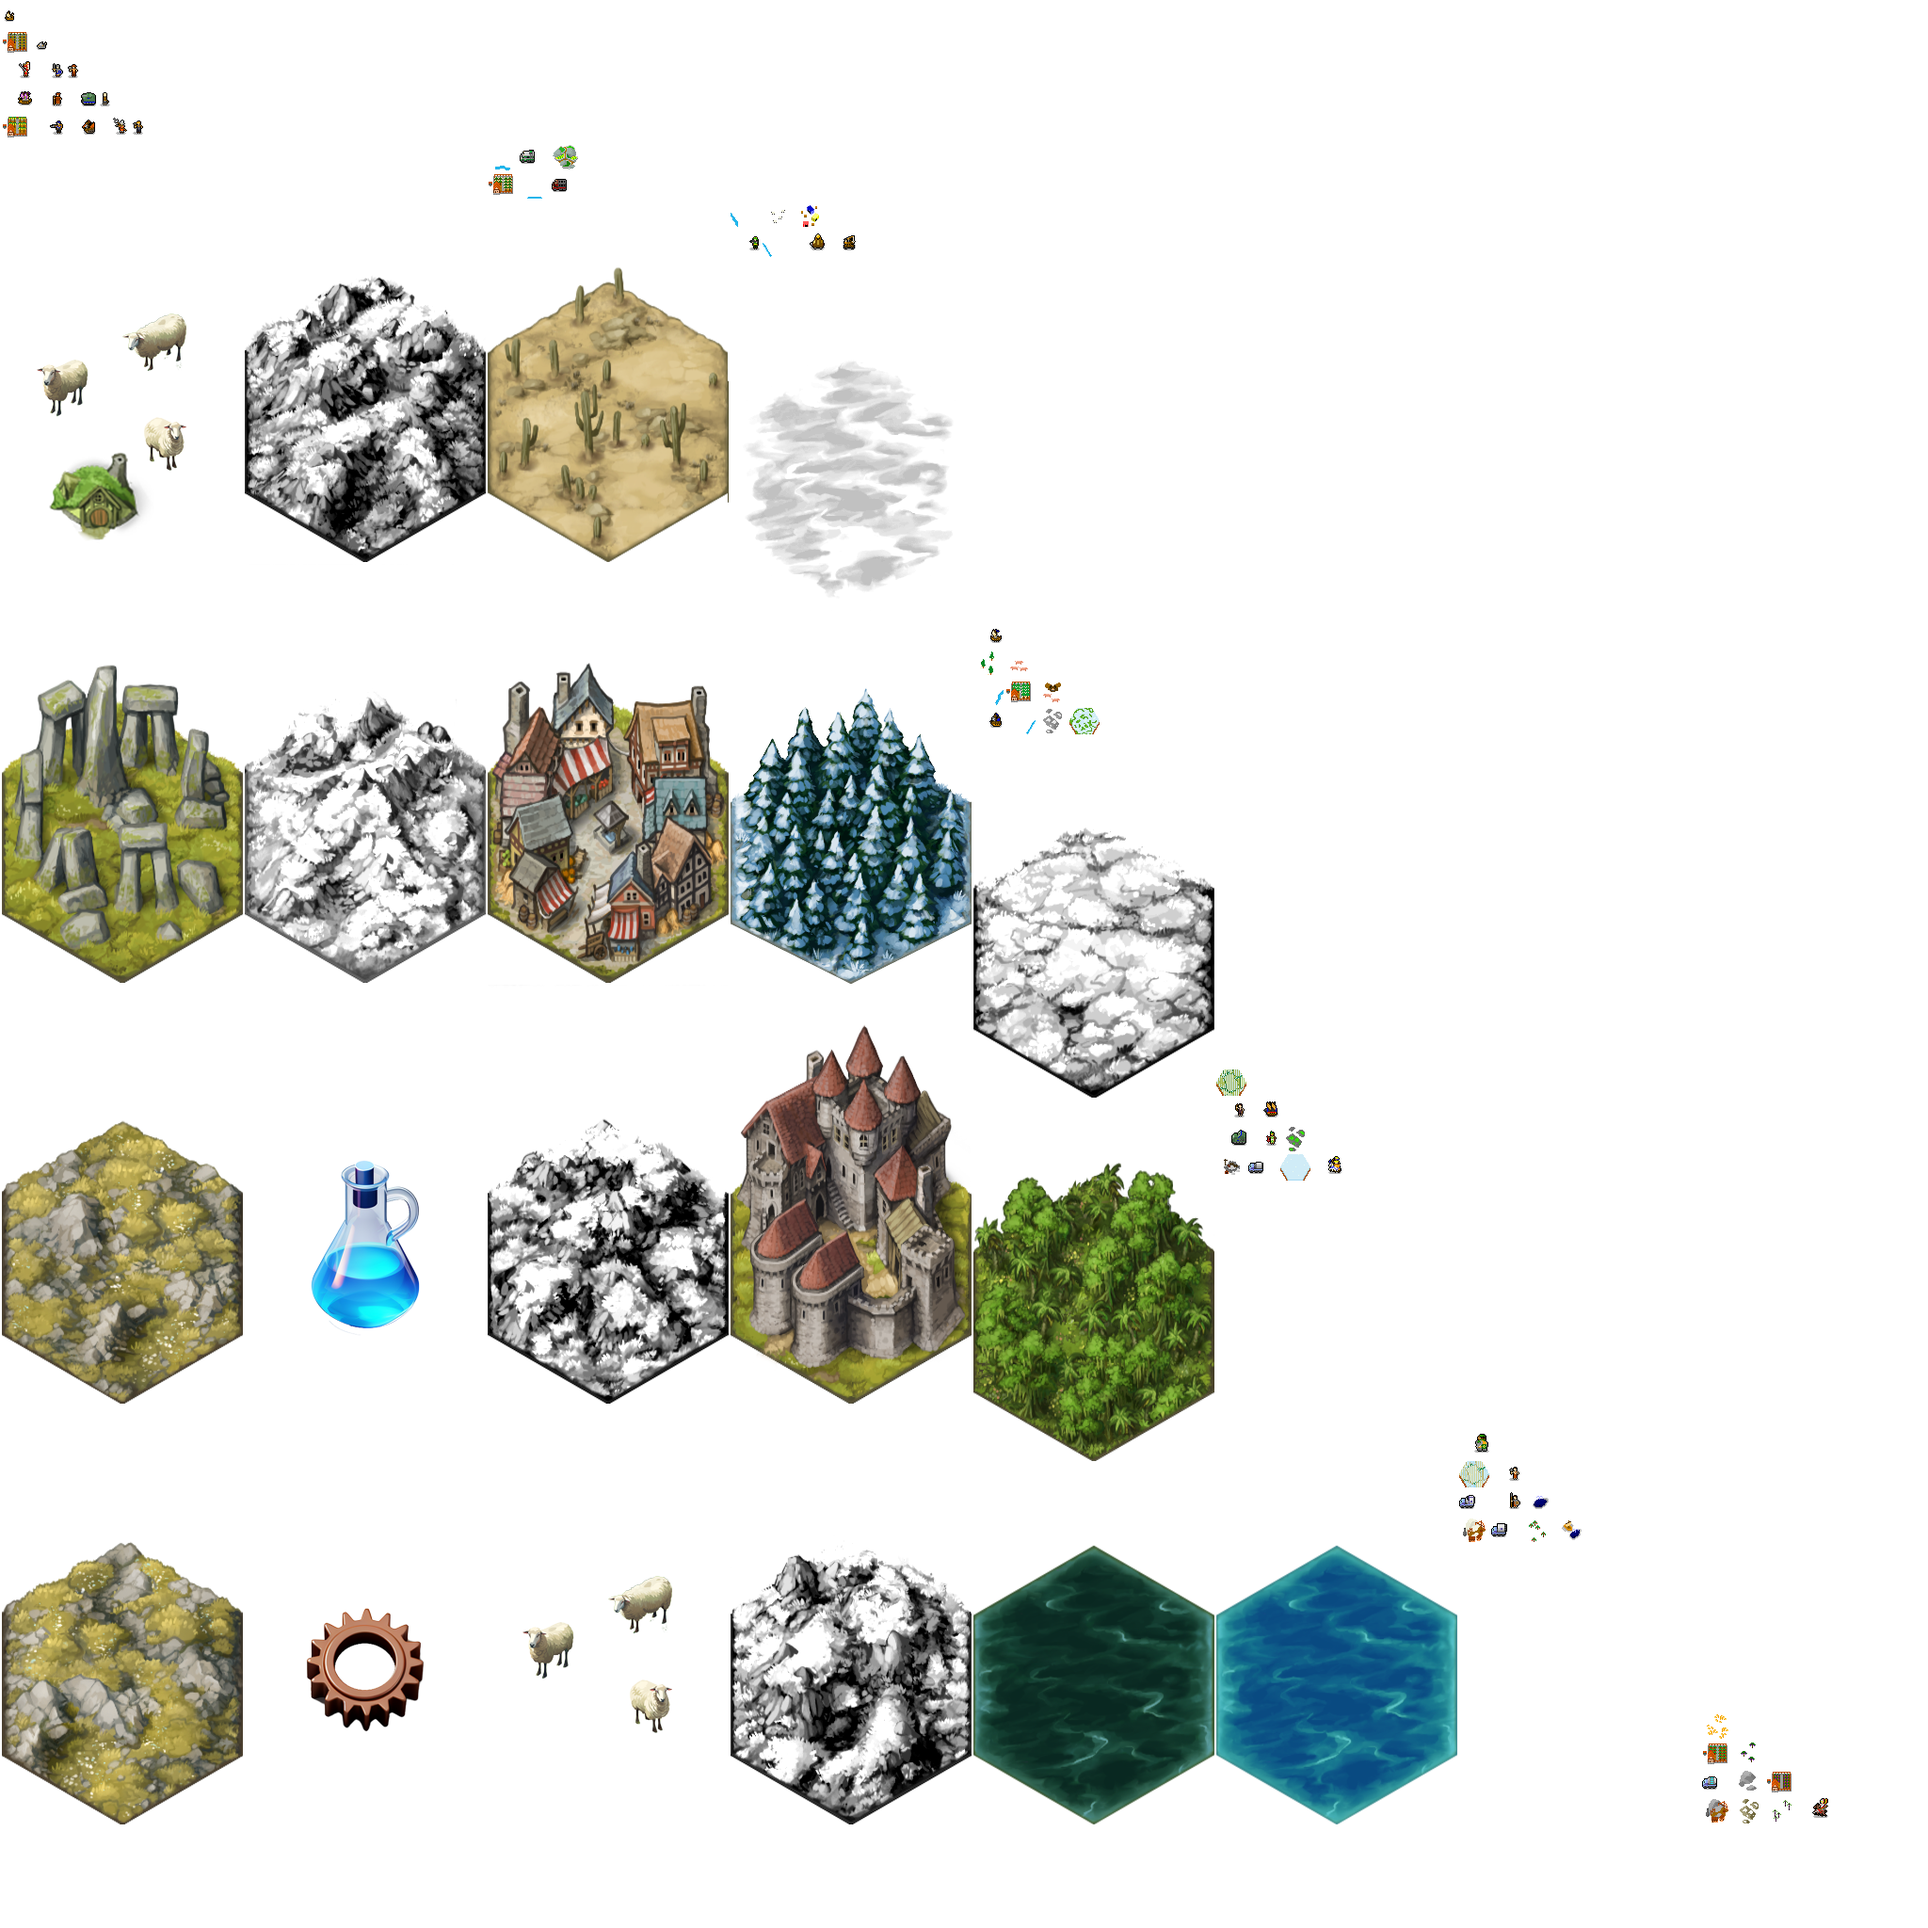
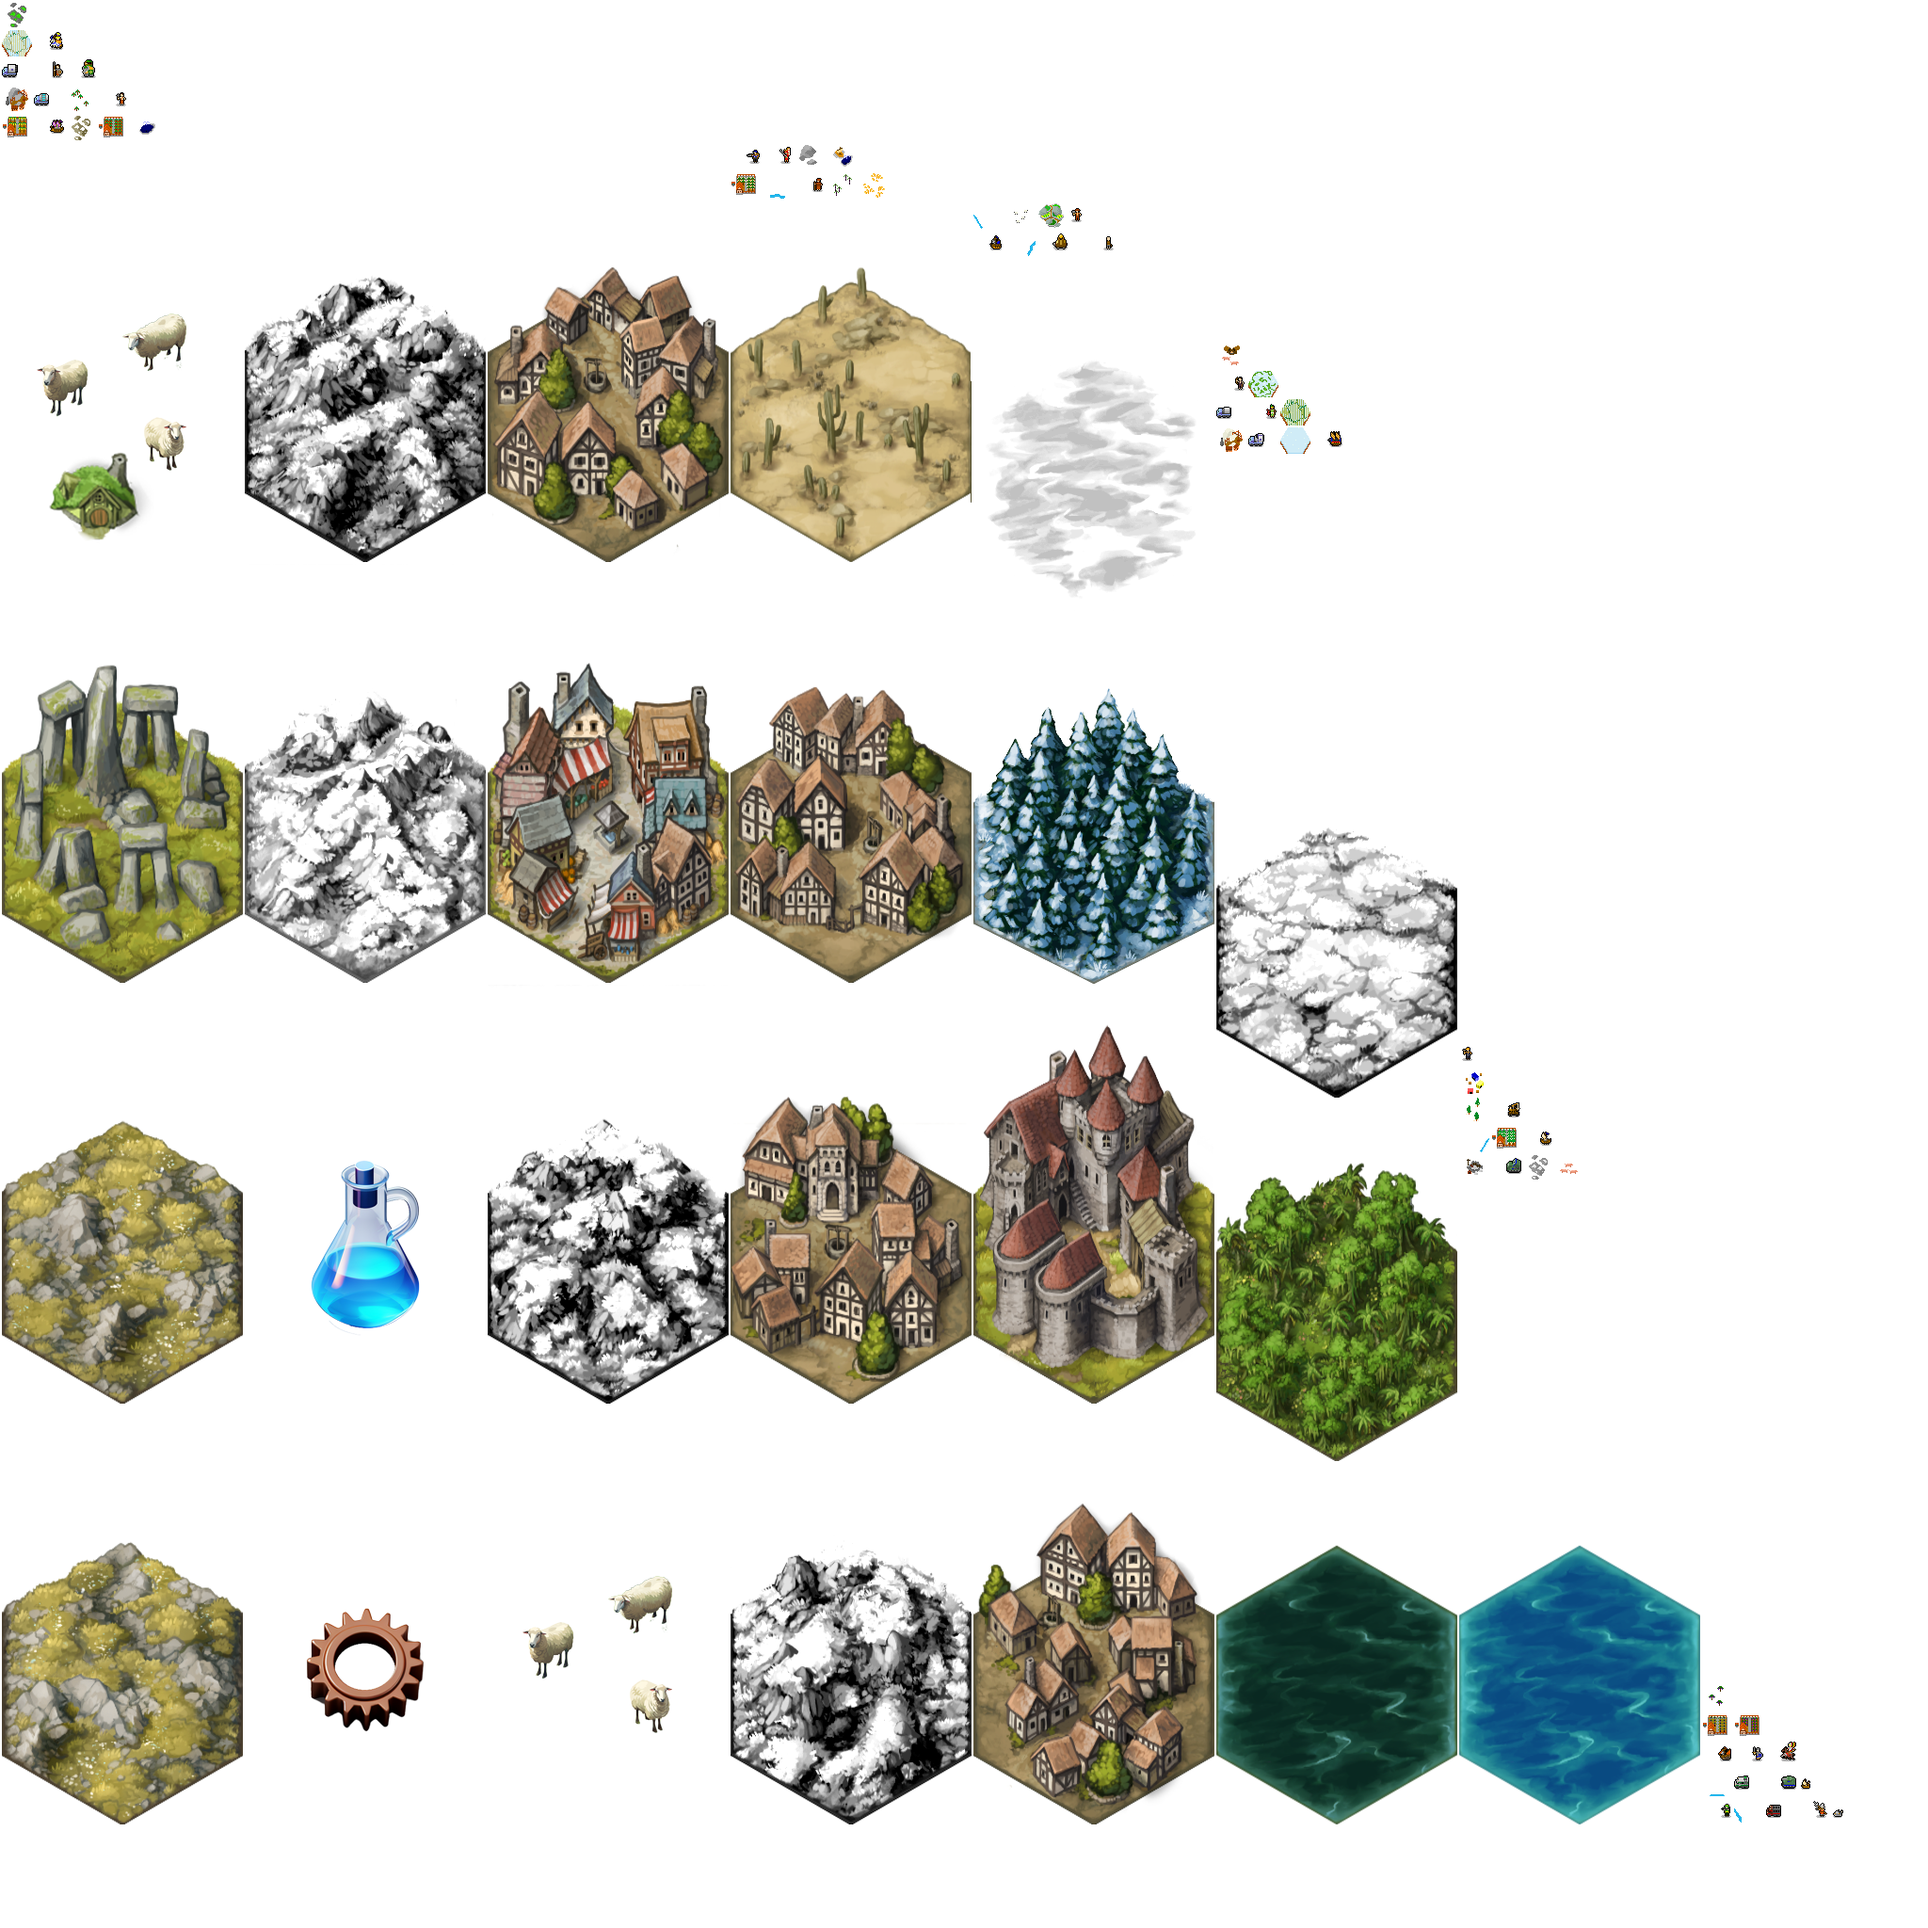
Neutral cities have Village tiles now, 4 different vars are possible.

diff --git a/core/src/com/unciv/ui/worldscreen/unit/UnitActions.kt b/core/src/com/unciv/ui/worldscreen/unit/UnitActions.kt
@@ -188,8 +188,13 @@ object UnitActions {
         val foundAction = {
             UncivGame.Current.settings.addCompletedTutorialTask("Found city")
             unit.civInfo.addCity(tile.position)
-            if (tile.ruleset.tileImprovements.containsKey("City center"))
-                tile.changeImprovement("City center")
+            if (tile.ruleset.tileImprovements.containsKey("City center")) {
+                if(unit.civInfo.isMajorCiv())
+                    tile.changeImprovement("City center")
+                else
+                    tile.changeImprovement("Village City center")
+
+            }
             tile.removeRoad()
             unit.destroy()
             UncivGame.Current.worldScreen!!.shouldUpdate = true
